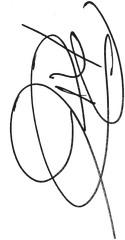
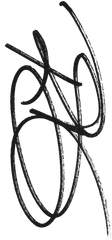
Swap in Rich's bolder marker signature on the invoice email

diff --git a/ghl/paid-invoice-email.html b/ghl/paid-invoice-email.html
@@ -89,7 +89,7 @@
     <tr><td style="padding:12px 40px 40px;" class="pad">
       <table role="presentation" width="100%"><tr>
         <td valign="bottom">
-          <img src="https://ghdagency.github.io/media/email/rich-signature.png" width="42" height="80" alt="Rich Diaz signature" style="display:block;width:42px;height:80px;">
+          <img src="https://ghdagency.github.io/media/email/rich-signature.png" width="37" height="80" alt="Rich Diaz signature" style="display:block;width:37px;height:80px;">
           <div style="font-size:11px;letter-spacing:1px;color:#8a857c;margin-top:8px;">Rich Diaz, Founder, GHD Agency</div>
         </td>
         <td valign="bottom" align="right">
